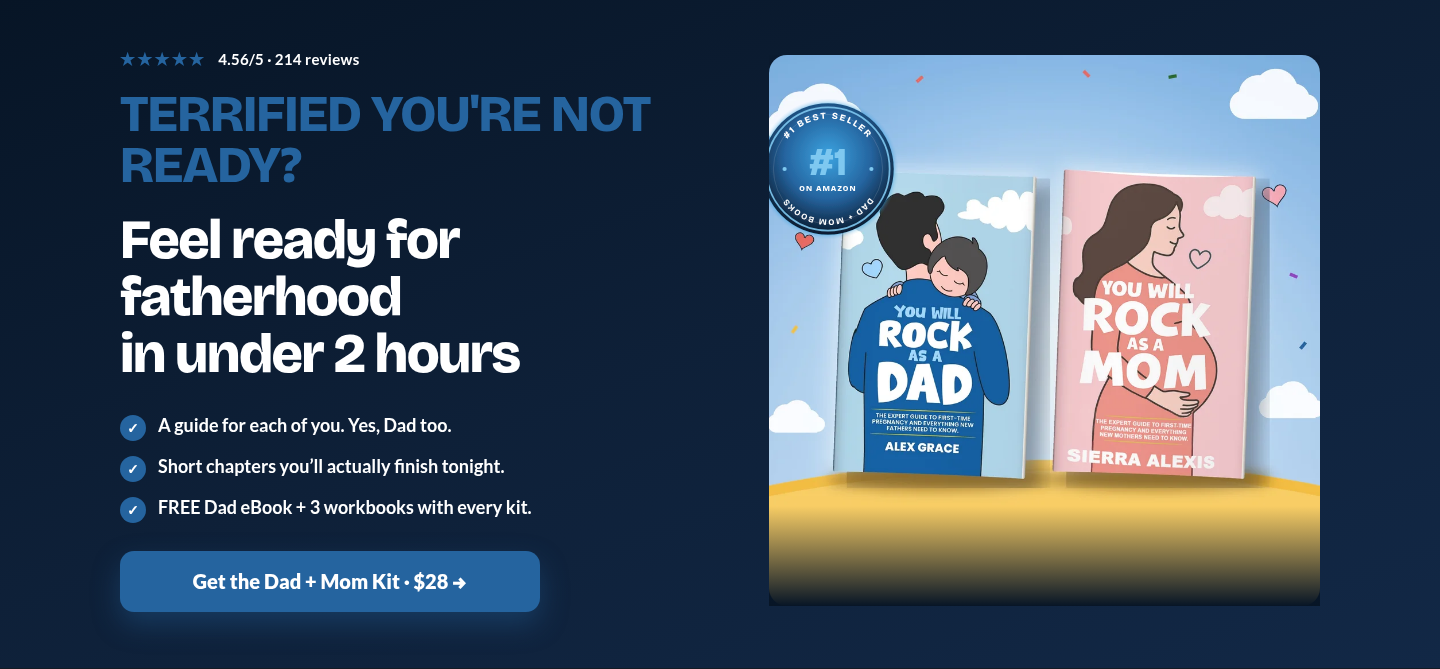
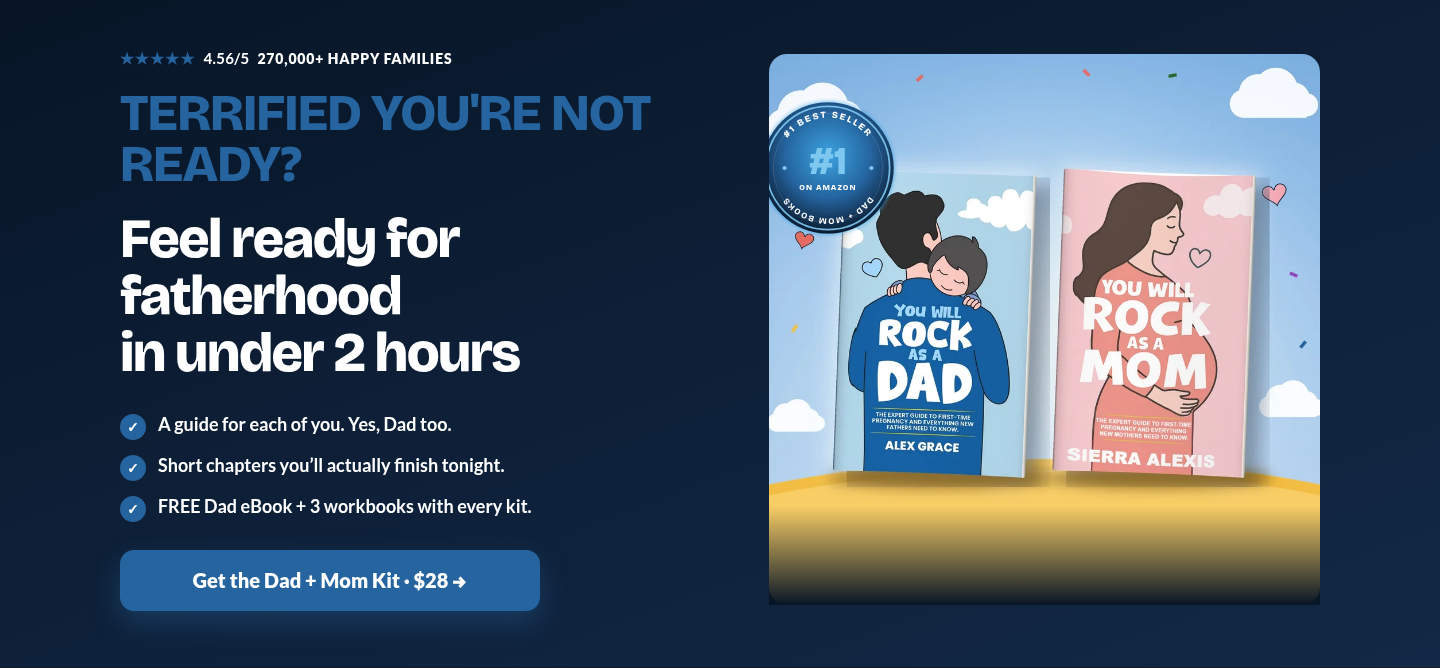
v5: hero trust line → 270,000+ HAPPY FAMILIES (buy keeps 214)

diff --git a/v5/index.html b/v5/index.html
@@ -751,12 +751,29 @@ body{padding-bottom:110px !important}
   .kit-tag{font-size:11.5px !important}
   .kit-covers img{max-height:48px}
 }
+
+/* Hero trust: Mars-style volume line */
+.hero-grid .trust, #top .trust{
+  display:flex; flex-wrap:wrap; align-items:center; gap:8px;
+  font-size:clamp(13px,2.2vw,15px); font-weight:700; color:#fff;
+}
+.hero-grid .trust .stars, #top .trust .stars{
+  color:#25649F !important; letter-spacing:1px; font-size:1.05em;
+}
+.hero-grid .trust .trust-score, #top .trust .trust-score{
+  color:#fff; font-weight:700;
+}
+.hero-grid .trust .trust-vol, #top .trust .trust-vol{
+  color:#fff; font-weight:800; text-transform:uppercase;
+  letter-spacing:.06em; font-size:clamp(12px,2vw,14px);
+}
+
 </style>
 </head>
 <body>
 <div class="draft">Draft mockup · not live · v5 Mars order</div>
 <section aria-label="Product headline" class="hero" id="top">
-<div class="hero-grid"><p class="trust"><span class="stars">★★★★★</span><span> 4.56/5 · 214 reviews</span></p><p class="hero-hook">TERRIFIED YOU'RE NOT READY?</p><h1><span class="h1-line">Feel ready for fatherhood</span><span class="h1-line">in under 2 hours</span></h1><div class="hero-visual">
+<div class="hero-grid"><p class="trust"><span class="stars" aria-hidden="true">★★★★★</span><span class="trust-score">4.56/5</span><span class="trust-vol">270,000+ HAPPY FAMILIES</span></p><p class="hero-hook">TERRIFIED YOU'RE NOT READY?</p><h1><span class="h1-line">Feel ready for fatherhood</span><span class="h1-line">in under 2 hours</span></h1><div class="hero-visual">
 <div class="product-frame">
 <svg class="bestseller-badge" xmlns="http://www.w3.org/2000/svg" xmlns:xlink="http://www.w3.org/1999/xlink" viewBox="0 0 200 200" width="140" height="140" role="img" aria-label="#1 Best Seller on Amazon — Dad + Mom books">
   <defs>
